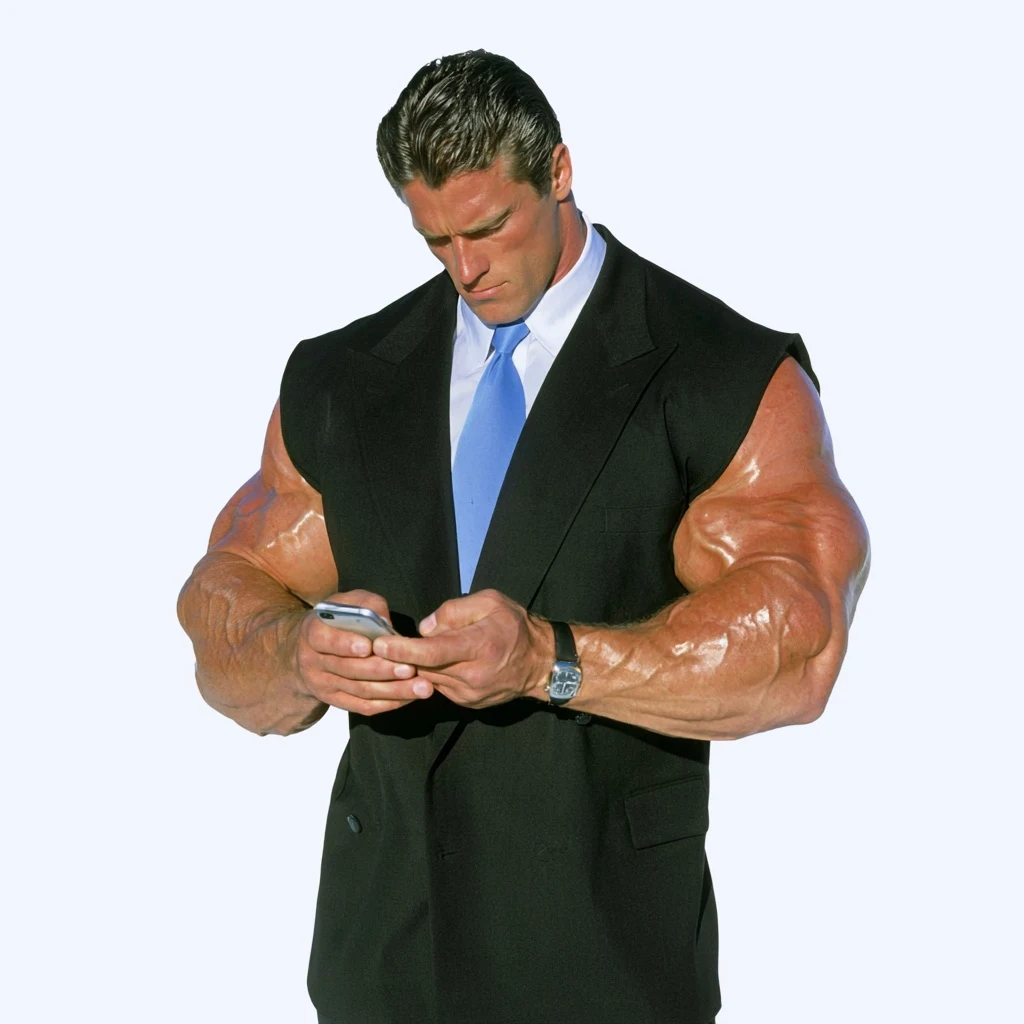
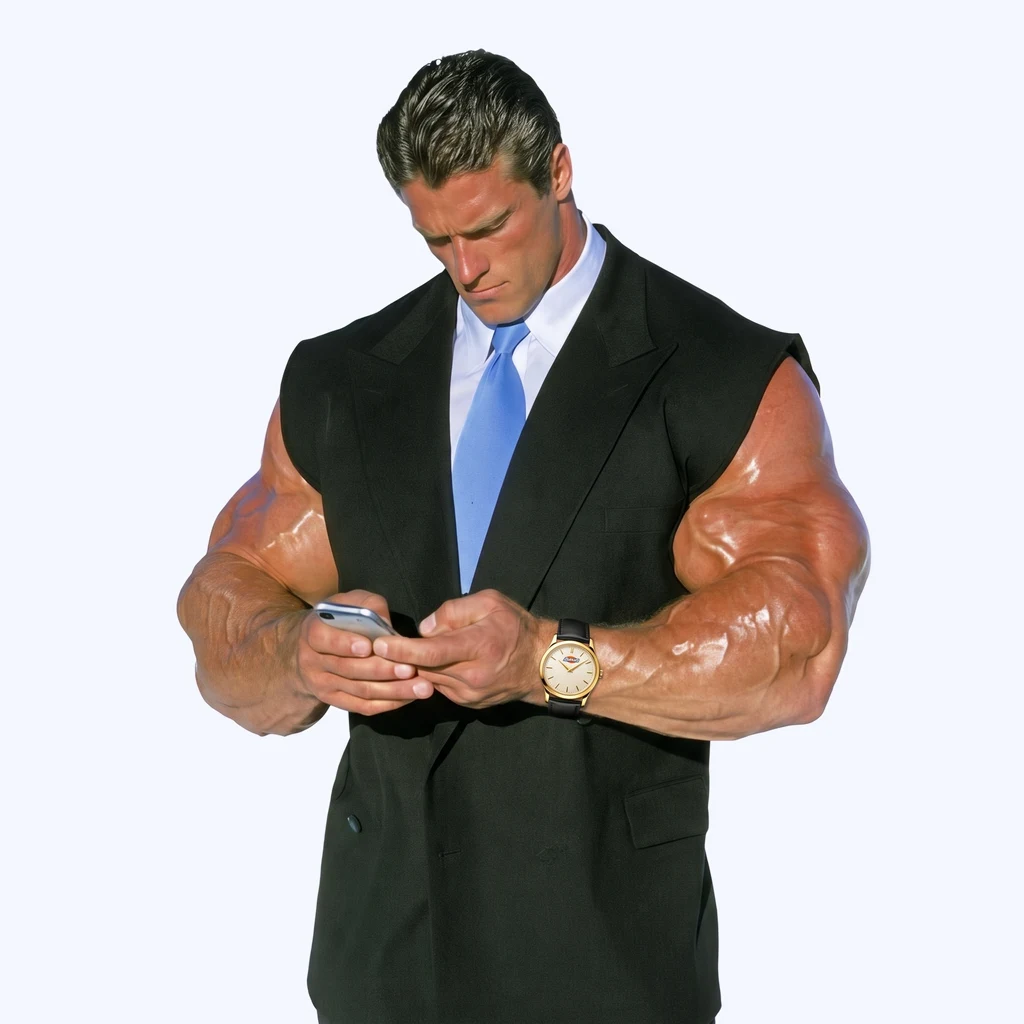
Homepage: Ballast watch on the ad band, with a dial callout
Claude-Session: https://claude.ai/code/session_01RsgFcg5nZJo1Bxv41FVakU

Changed region(s): [[0.375, 0.0625, 0.5625, 0.1875], [0.5, 0.5938, 0.5938, 0.7188], [0.7188, 0.5938, 0.75, 0.625]]

diff --git a/ballast-site/index.html b/ballast-site/index.html
@@ -704,15 +704,20 @@
   .roll__l{margin:0;font-weight:800;font-size:clamp(26px,3.4vw,58px);line-height:1.12;letter-spacing:-.035em;color:#fff;max-width:none}
   .trk__x>p{visibility:hidden;transition:visibility 0s .3s}
   .trk.is-open .trk__x>p{visibility:visible;transition:none}
-  .adx{background:#F2F6FD;color:var(--ink);overflow:hidden}
+  .adx{background:#F4F7FE;color:var(--ink);overflow:hidden}
   .adx__in{display:grid;grid-template-columns:minmax(0,6fr) minmax(0,5fr);gap:clamp(16px,3vw,48px);align-items:end;padding-top:clamp(40px,7vh,88px)}
   .adx__copy{align-self:center;padding-bottom:clamp(32px,6vh,72px)}
   .adx__h{margin:0;font-family:"Ballast Display",var(--g);font-style:italic;font-weight:900;text-transform:uppercase;font-size:clamp(50px,7.4vw,136px);line-height:.86;color:var(--ink);max-width:7.5ch}
   .adx__p{margin:clamp(14px,2.4vh,24px) 0 0;font-family:"Ballast Display",var(--g);font-style:italic;font-weight:900;text-transform:uppercase;font-size:clamp(26px,3.2vw,56px);line-height:.95;color:var(--orange)}
   .adx__go{margin-top:clamp(22px,4vh,36px);background:var(--ink);border-color:var(--ink);color:#fff}
   .adx__go:hover{background:var(--orange);border-color:var(--orange);color:var(--ink)}
-  .adx__img{display:block;width:100%;max-width:660px;height:auto;justify-self:end}
-  @media (max-width:760px){.adx__in{grid-template-columns:minmax(0,1fr)}.adx__copy{padding-bottom:0}.adx__img{max-width:100%;justify-self:center}}
+  .adx__fig{position:relative;margin:0;width:100%;max-width:660px;justify-self:end}
+  .adx__img{display:block;width:100%;height:auto}
+  .adx__line{position:absolute;inset:0;width:100%;height:100%;overflow:visible;pointer-events:none}
+  .adx__line line{stroke:var(--orange);stroke-width:2.5;vector-effect:non-scaling-stroke}
+  .adx__ring{position:absolute;left:55.8%;top:64.2%;width:6.4%;aspect-ratio:1;transform:translate(-50%,-50%);border:2.5px solid var(--orange);border-radius:50%;pointer-events:none}
+  .adx__zoom{position:absolute;left:66%;top:21%;width:31%;height:auto;border-radius:50%;box-shadow:0 0 0 4px var(--orange),0 18px 40px rgba(10,13,24,.28);background:#fff}
+  @media (max-width:760px){.adx__in{grid-template-columns:minmax(0,1fr)}.adx__copy{padding-bottom:0}.adx__fig{max-width:100%;justify-self:center}}
   .nl__hp{position:absolute;left:-9999px;width:1px;height:1px;opacity:0}
   .roll--about{padding-bottom:0}
   .roll__l em{font-style:italic;color:var(--orange)}
@@ -991,7 +996,12 @@
         <p class="adx__p">Ours do. Book a call&nbsp;today.</p>
         <a class="btn btn--lg adx__go" href="#book">Book a call</a>
       </div>
-      <img class="adx__img" src="/work/adx/watch-guy.webp" width="1024" height="1024" alt="A very muscular man in a suit frowning at his phone" loading="lazy">
+      <figure class="adx__fig">
+        <img class="adx__img" src="/work/adx/watch-guy.webp?v=2" width="1024" height="1024" alt="A very muscular man in a suit frowning at his phone, wearing a gold Ballast watch" loading="lazy">
+        <svg class="adx__line" viewBox="0 0 100 100" preserveAspectRatio="none" aria-hidden="true"><line x1="58.6" y1="61.8" x2="70.5" y2="50.5"/></svg>
+        <span class="adx__ring" aria-hidden="true"></span>
+        <img class="adx__zoom" src="/work/adx/watch-dial.webp" width="560" height="560" alt="" aria-hidden="true" loading="lazy">
+      </figure>
     </div>
   </section>
 
